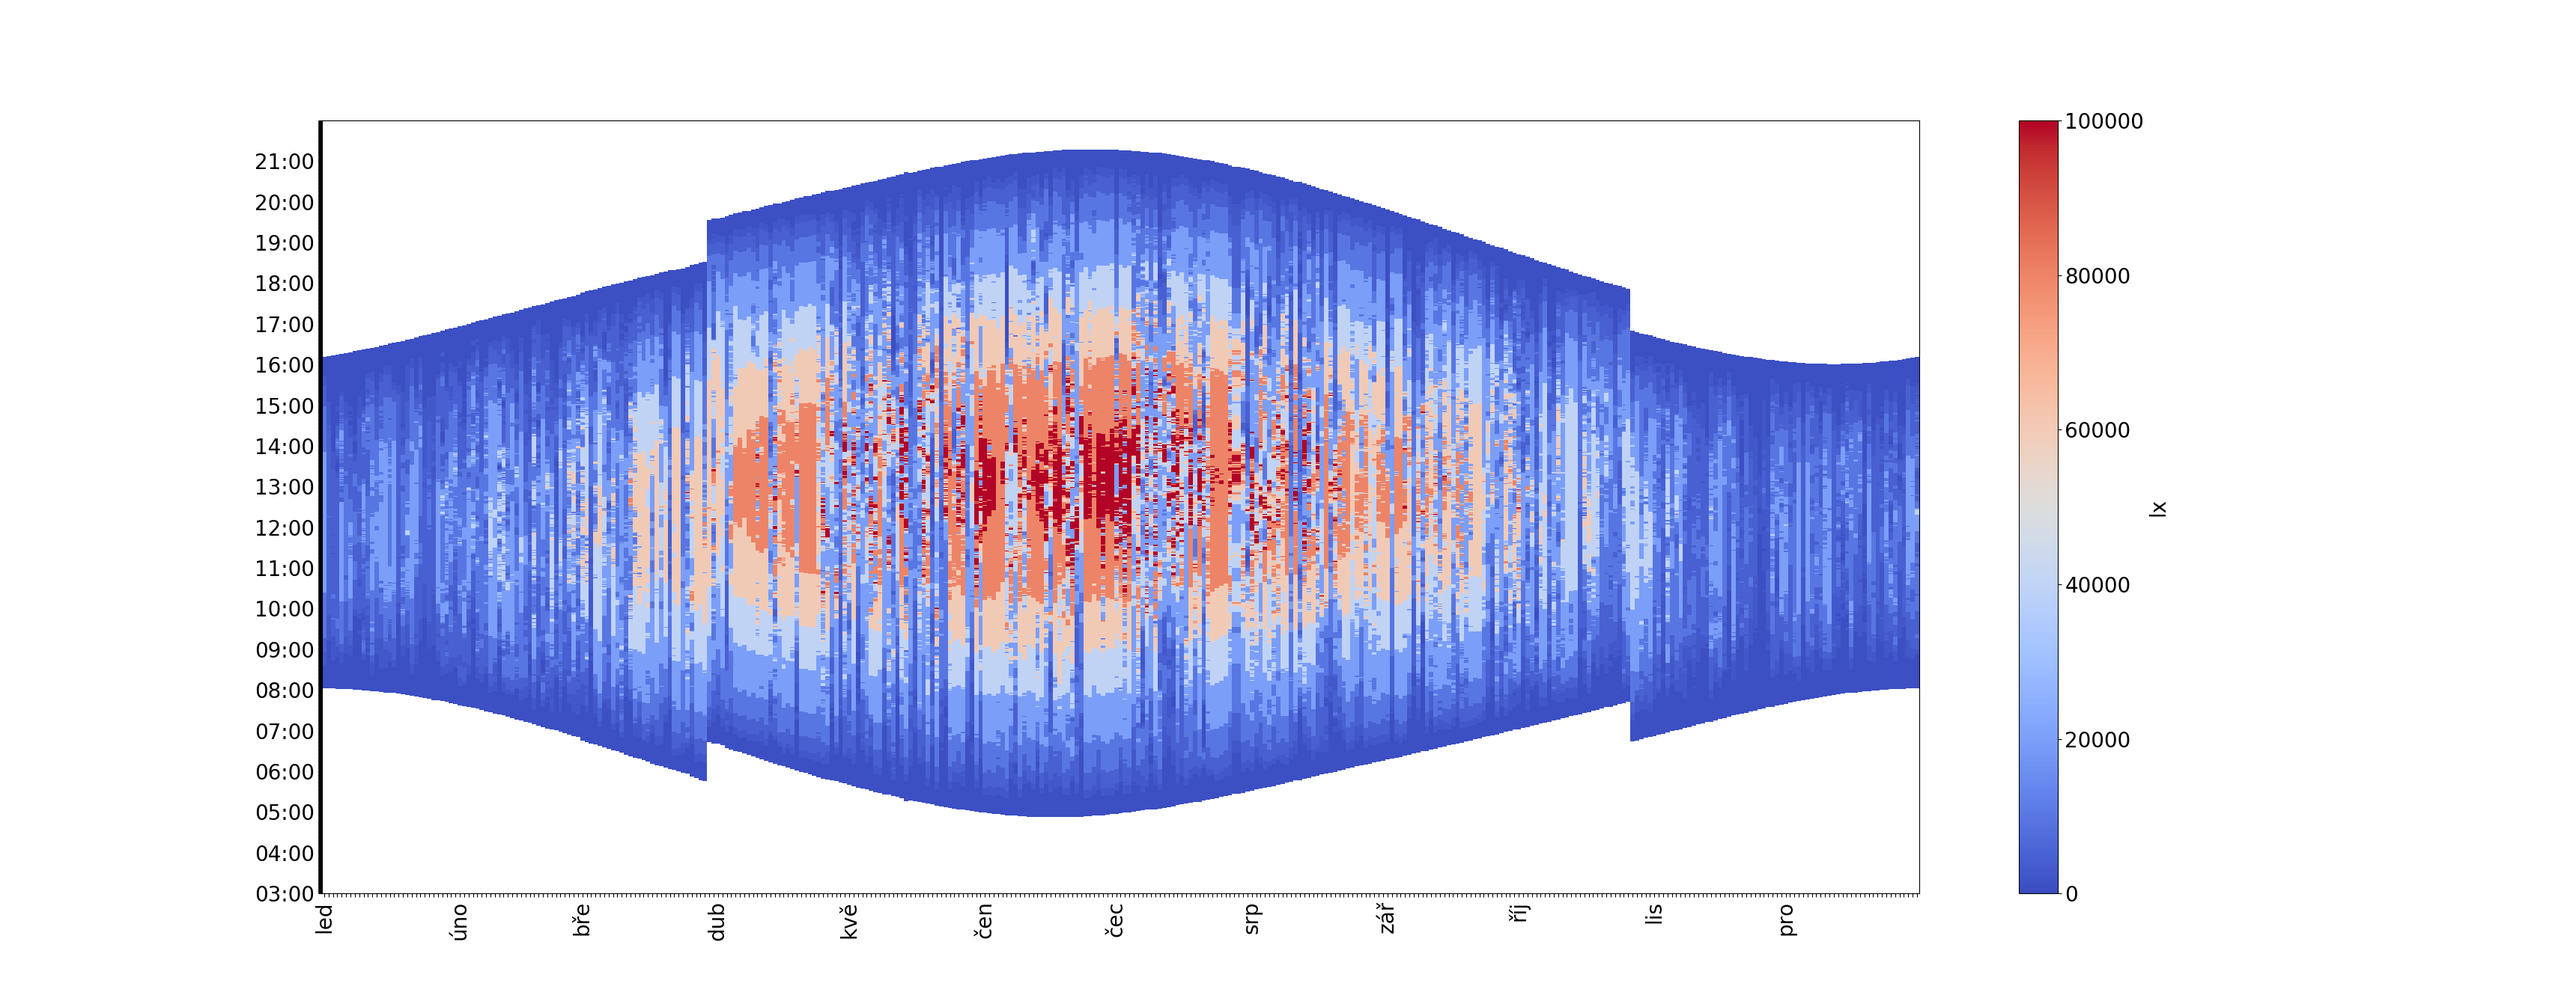
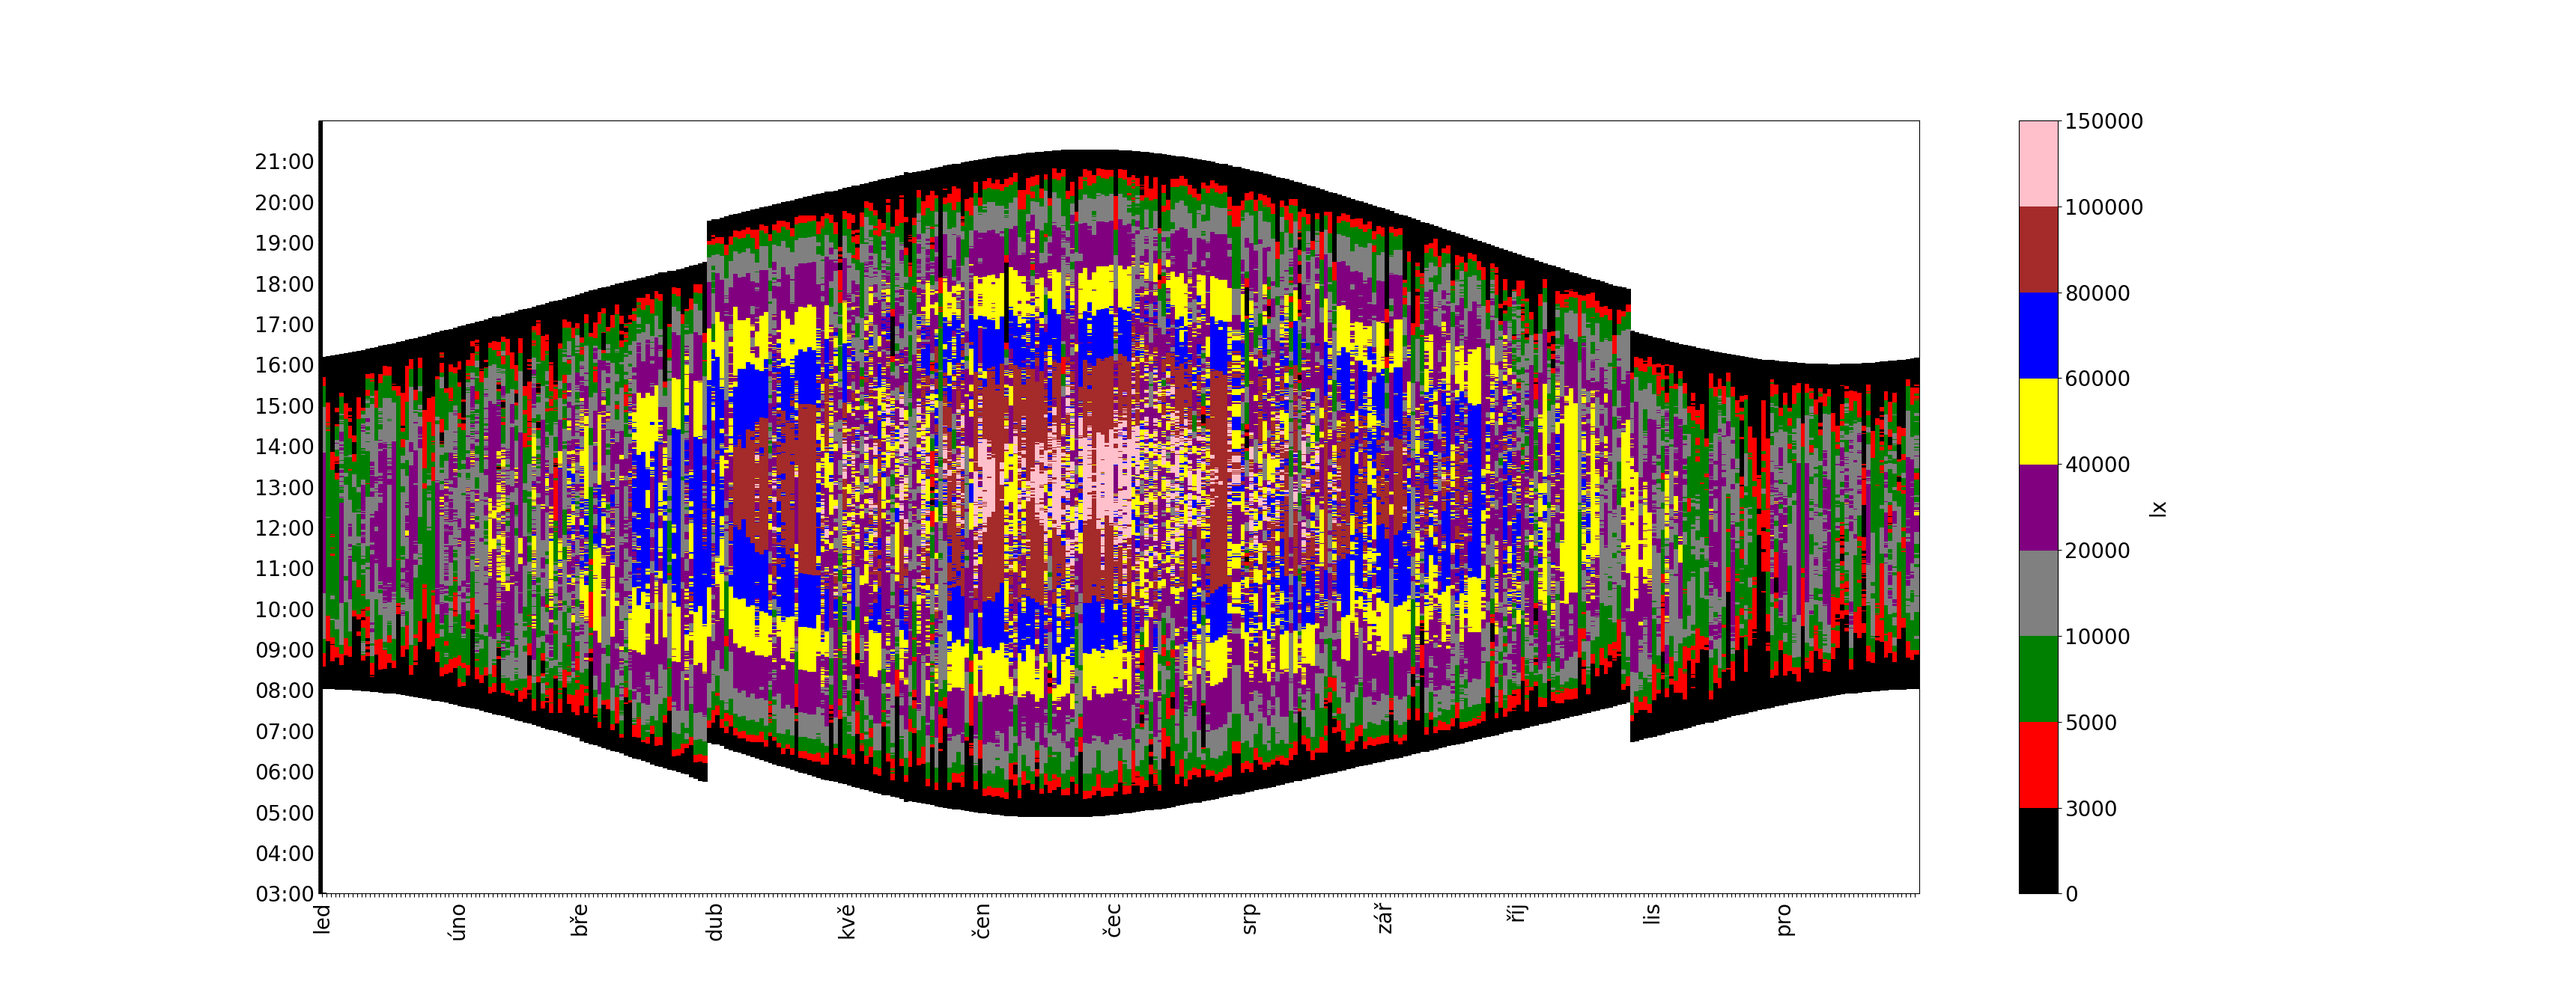
Use pcolor (instead of imshow)for median_19_exterier_cvs_quantized

diff --git a/median_19_exterier_cvs_quantized.py b/median_19_exterier_cvs_quantized.py
@@ -22,30 +22,6 @@ def normalizeYear(d):
 
 df['day'] = df['day'].apply(normalizeYear)
 
-def quantize(n):
-  if n > 100000:
-    return 100000
-  elif n > 80000:
-    return 80000
-  elif n > 60000:
-    return 60000
-  elif n > 40000:
-    return 40000
-  elif n > 20000:
-    return 20000
-  elif n > 10000:
-    return 10000
-  elif n > 5000:
-    return 5000
-  elif n > 3000:
-    return 3000
-  elif n > 0:
-    return 1000
-  else:
-    return n
-
-df['b'] = df['b'].apply(quantize)
-
 df['hour'] = pandas.to_datetime(df['hour'], format='%H:%M:%S')
 
 print(list(df.columns))
@@ -62,7 +38,11 @@ print(df2)
 
 fig, ax = plt.subplots()
 
-im = ax.imshow(df2, aspect='auto', origin='lower', cmap=plt.get_cmap("coolwarm"))
+from matplotlib import colors
+cmap = colors.ListedColormap(['black', 'red', 'green', 'grey', 'purple', 'yellow', 'blue', 'brown', 'pink'])
+bounds=[0, 3000, 5000, 10000, 20000, 40000, 60000, 80000, 100000, 150000]
+norm = colors.BoundaryNorm(bounds, cmap.N)
+im = ax.pcolor(df2, cmap=cmap, norm=norm)
 
 
 import locale
